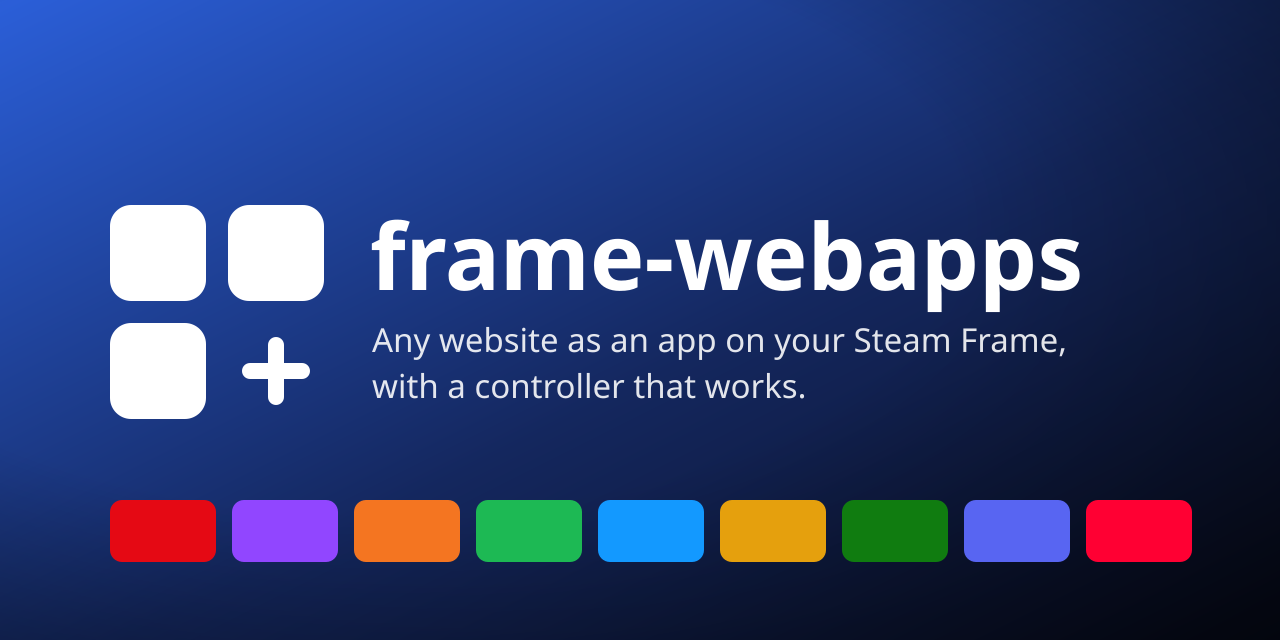
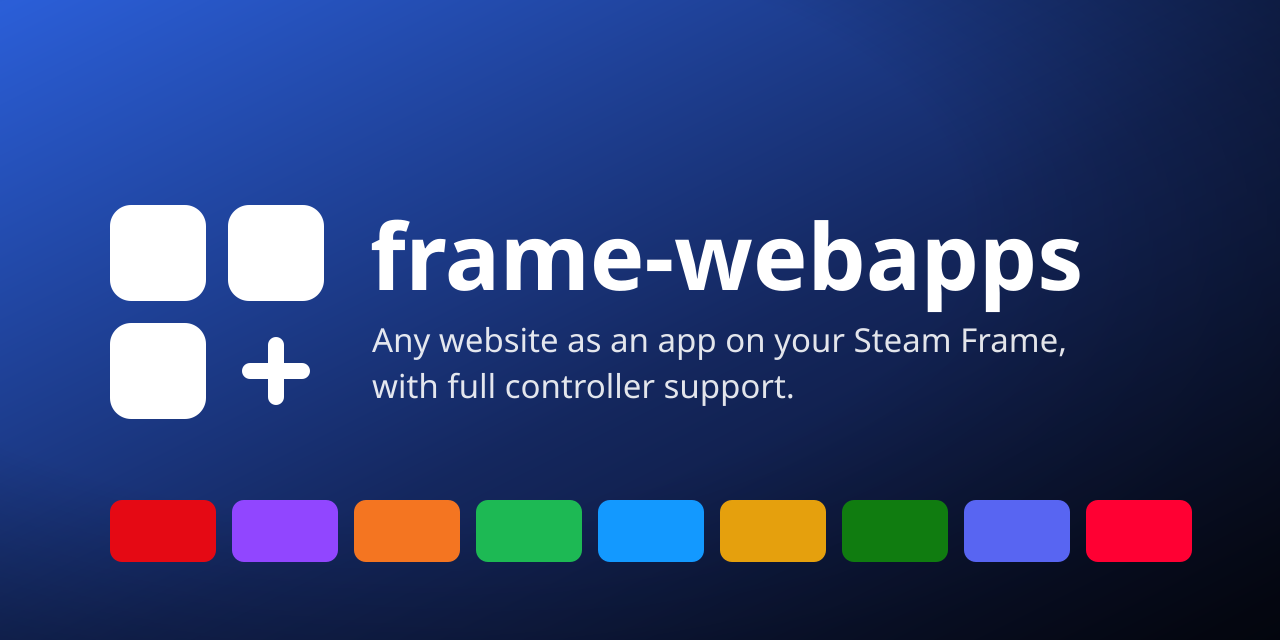
Reword the tagline

Changed region(s): [[0.3438, 0.5938, 0.625, 0.625]]

diff --git a/README.md b/README.md
@@ -3,7 +3,7 @@
 ![Made for Steam Frame](https://img.shields.io/badge/made%20for-Steam%20Frame-1a9fff)
 ![License: MIT](https://img.shields.io/badge/license-MIT-green)
 
-**Turn any website into an app on your Steam Frame, with a controller that works.**
+**Turn any website into an app on your Steam Frame, with full controller support.**
 
 ![The Steam library in the headset, showing Web Apps next to Twitch, Kick, Crunchyroll and YouTube tiles](docs/steam-library.png)
 
